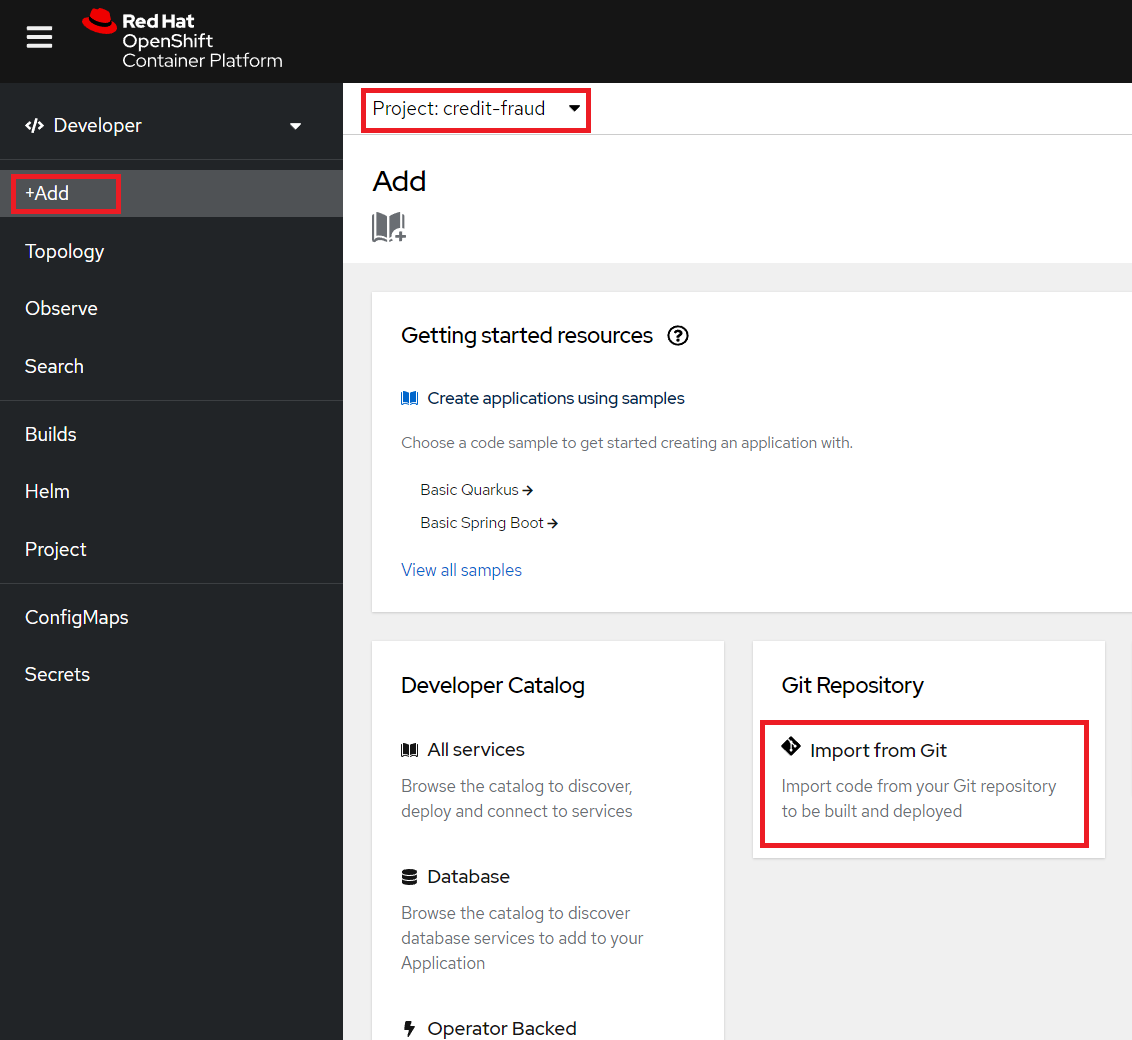
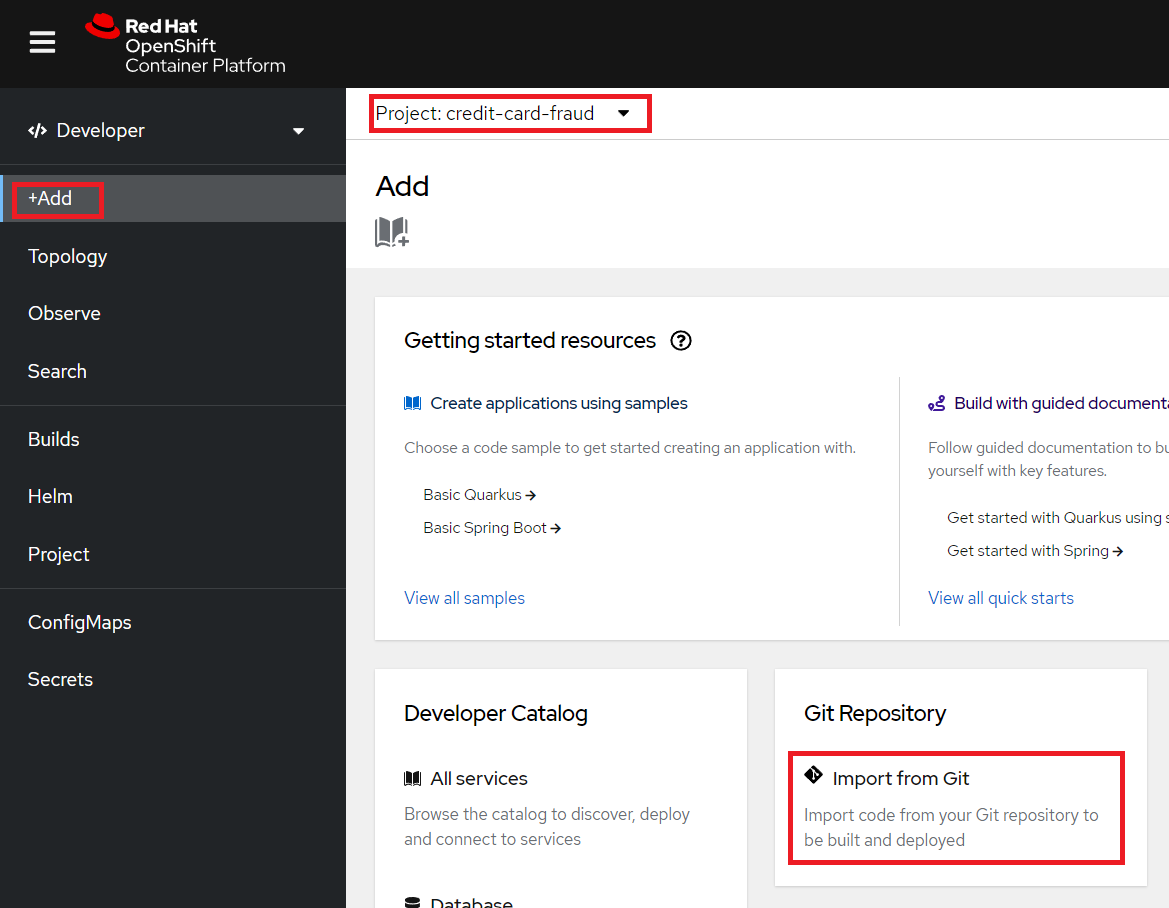
Updated README

diff --git a/README.md b/README.md
@@ -1,30 +1,36 @@
-# Credit Card Fraud Detection Demo using MLFlow and RHODS
+# Credit Card Fraud Detection Demo using MLFlow and Red Hat OpenShift Data Science
 [GitHub Source](https://github.com/red-hat-data-services/credit-fraud-detection-demo)
 
-# Pre-requisites:
-- Have [RHODS](/getting_started_rhods) running in a cluster
-- Have [MLFlow](/tools_and_applications_mlflow) running in a cluster
+## Pre-requisites:
+- Have [Red Hat OpenShift Data Science](/getting-started/openshift-data-science/) (RHODS) running in a cluster
+    - Note: You use [Open Data Hub](/getting-started/opendatahub/) instead of RHODS, but this demo and all the screenshots are from RHODS
+- Have [MLFlow](/tools-and-applications/mlflow/mlflow/) running in a cluster
 
-# Demo Description & Architecture
-The goal of this demo is to demonstrate how RHODS and MLFlow can be used together to build and end-to-end MLOps platform where we can: 
+## Demo Description & Architecture
+The goal of this demo is to demonstrate how RHODS and MLFlow can be used together to build an end-to-end MLOps platform where we can: 
 
 - Build and train models in RHODS
 - Track and store those models with MLFlow
-- Deploy a model application in OpenShift that predicts with a sepcific model from MLFlow
-- Observe how the model performs in production
+- Deploy a model application in OpenShift that runs predictions with a specific model from MLFlow
 
 The architecture looks like this:
 ![Diagram](img/Diagram.PNG)
 
-For S3 we use ODF (OpenShift Data Foundation) according to the [MLFlow guide](/tools_and_applications_mlflow), but it can be replaced with another storage.  
-The monitoring component uses Prometheus and Grafana.
+Description of each component:
 
-The model we will build is a Credit Card Fraud Detection model, which predicts if a credit card usage is fraudulent or not depending on a few paramemters such as: distance from home and last transaction, purchase price compared to median, if it's from a retailer that already has been purchased from before, if the PIN number is used and if it's an online order or not.
+- **Data Set:** The data set contains the data used for training and evaluating the model we will build in this demo.
+- **RHODS Notebook:** We will build and train the model using a Jupyter Notebook running in RHODS.
+- **MLFlow Experiment tracking:** We use MLFlow to track the model training run and parameters and metrics (such as accuracy, loss, etc) of the run. Every run is called an experiment.
+- **MLFlow Model registry:** As we track the experiment we also store the trained model through MLFlow so we can easily version it and assign a stage to it (for example Staging, Production, Archive).
+- **S3 (ODF):** This is where the models are physically stored and what the MLFlow model registry interfaces with. We use ODF (OpenShift Data Foundation) according to the [MLFlow guide](/tools-and-applications/mlflow/mlflow/), but it can be replaced with another storage.  
+- **Application interface:** This is the interface used to run predictions with the model. In our case, we will build a visual interface (interactive app) using Gradio and let it load the model from the MLFlow model registry.
+
+The model we will build is a Credit Card Fraud Detection model, which predicts if a credit card usage is fraudulent or not depending on a few parameters such as: distance from home and last transaction, purchase price compared to median, if it's from a retailer that already has been purchased from before, if the PIN number is used and if it's an online order or not.
 
 
-# Demo
+## Deploying the demo
 
-## 1.1: MLFlow Route through visual interface
+### 1.1: MLFlow Route through the visual interface
 Start by finding your route to MLFlow. You will need it to send any data to MLFlow.
 
 - Go to the OpenShift Console as a Developer
@@ -35,16 +41,22 @@ Start by finding your route to MLFlow. You will need it to send any data to MLFl
 - Go to the Resources tab 
 - Press mlflow-server under Services 
 - Look at the Hostname and mlflow-server Port.  
-NOTE: This route and port only works internally in the cluster.
+NOTE: This route and port only work internally in the cluster.
+
 ![Find mlflow-server-service](img/mlflow-server-service.png)
-![Find hostname and port](img/hostname-and-port.png)
+![Find the hostname and port](img/hostname-and-port.png)
 
-## 1.2: MLFlow Route through oc
-Alternatively, you can use the OC command to get the route through: `oc get route mlflow | grep mlflow`
+### 1.2: Get the MLFlow Route using command-line
+Alternatively, you can use the OC command to get the route through: `oc get route mlflow -n mlflow | grep mlflow`
 
-## 2: Create a RHODS workbench
-Open up RHODS and create a new Data Science project (see image), this is where we will build and train our model. This will also create a namespace in OpenShift which is where we will be running our appliaction after the model is done.  
-I'm calling my project 'Credit Fraud', feel free to call yours something different but be aware that some things further down in the demo may change.
+### 2: Create a RHODS workbench
+Start by open up RHODS by clicking on the 9 square symbol in the top menu and choosing "Red Hat OpenShift Data Science".
+
+![Open RHODS](img/Open_RHODS.png)
+
+Then create a new Data Science project (see image), this is where we will build and train our model. This will also create a namespace in OpenShift which is where we will be running our application after the model is done.  
+I'm calling my project 'Credit Card Fraud', feel free to call yours something different but be aware that some things further down in the demo may change.
+
 ![Create Data Science Project](img/Create_data_science_project.png)
 
 After the project has been created, create a workbench where we can run Jupyter.  
@@ -53,34 +65,78 @@ There are a few important settings here that we need to set:
 - **Name:** I simply call it "Credit Fraud Model", but feel free to call it something else.
 - **Notebook Image:** Standard Data Science
 - **Deployment Size:** Small
-- **Environment Variable:** Add a new one that's a Config Map -> Key/value and enter `MLFLOW_ROUTE` as the key and `http://<route-to-mlflow>:<port>` as the value.  
-This is the same route and port that we found in [step one](#11-mlflow-route-through-visual-interface), in my case it is `http://mlflow-server.mlflow.svc.cluster.local:8080`.
-- **Cluster Storage:** Create new persistent storage - I call it "Credit Fraud Storage" and set size to 20GB.
+- **Environment Variable:** Add a new one that's a Config Map -> Key/value and enter `MLFLOW_ROUTE` as the key and `http://<route-to-mlflow>:<port>` as the value, replacing `<route-to-mlflow>` and `<port>` with the  route and port that we found in [step one](#11-mlflow-route-through-the-visual-interface).  In my case it is `http://mlflow-server.mlflow.svc.cluster.local:8080`.
+- **Cluster Storage:** Create new persistent storage - I call it "Credit Fraud Storage" and set the size to 20GB.
 
-Press Create Workbench and wait for it to start (Status should say "Running" and you should be able to press the Open link).
 ![Workbench Settings](img/Workbench_Settings.png)
+
+Press Create Workbench and wait for it to start - status should say "Running" and you should be able to press the Open link.
+
 ![Workbench](img/Workbench.png)
 
-Open the workbench and log in if needed.
+Open the workbench and login if needed.
 
-## 3: Train the model
-When inside the workbench (Jupyter), pull down this repo from GitHub: [https://github.com/red-hat-data-services/credit-fraud-detection-demo](https://github.com/red-hat-data-services/credit-fraud-detection-demo).   
-It contains:
+### 3: Train the model
+When inside the workbench (Jupyter), we are going to clone a GitHub repository which contains everything we need to train our model.  
+You can clone the GitHub repository by pressing the GitHub button in the left side menu (see image), then select "Clone a Repository" and enter this GitHub URL: [https://github.com/red-hat-data-services/credit-fraud-detection-demo](https://github.com/red-hat-data-services/credit-fraud-detection-demo) 
 
-- A notebook (model.ipynb) inside the `model` folder with a Deep Neural Network model we will train.
-- Data for that model.
-- An application (model_application.py) inside the `application` folder which will fetch the trained model from MLFlow and run a prediction on it whenever it gets any user input.
 ![Jupyter](img/Jupyter.png)
 
-Take a look inside the folders and scripts if you are interested.  
-Some things to note is how we set up tracking and logging with MLFlow in `model.ipynb` to make sure that the experiment and the model is captured. You can also read about that in the [MLFlow guide](/tools_and_applications_mlflow#adding-mlflow-to-training-code).
+Open up the folder that was added (credit-fraud-detection-demo).  
+It contains:
 
-When you are done, open up the `model.ipynb` notebook and run all the cells. If the everything is set up correctly it will train the model and push both the experiment and the model to MLFlow.  
+- Data for training and evaluating the model.
+- A notebook (model.ipynb) inside the `model` folder with a Deep Neural Network model we will train.
+- An application (model_application.py) inside the `application` folder that will fetch the trained model from MLFlow and run a prediction on it whenever it gets any user input.
+
+The `model.ipynb` is what we are going to use for building and training the model, so open that up and take a look inside, there is documentation outlining what each cell does. What is particularly interesting for this demo are the last two cells.  
+
+The second to last cell contains the code for setting up MLFlow tracking:
+```
+mlflow.set_tracking_uri(MLFLOW_ROUTE)
+mlflow.set_experiment("DNN-credit-card-fraud")
+mlflow.tensorflow.autolog(registered_model_name="DNN-credit-card-fraud")
+```
+`mlflow.set_tracking_uri(MLFLOW_ROUTE)` just points to where we should send our MLFlow data.  
+`mlflow.set_experiment("DNN-credit-card-fraud")` tells MLFlow that we want to create an experiment, and what we are going to call it. In this case I call it "DNN-credit-fraud" as we are building a Deep Neural Network.  
+`mlflow.tensorflow.autolog(registered_model_name="DNN-credit-card-fraud")` enables autologging of a bunch of variables (such as accuracy, loss, etc) so we don't manually have to track them. It also automatically uploads the model to MLFlow after the training completes. Here we name the model the same as the experiment.
+
+Then in the last cell we have our training code:
+```
+with mlflow.start_run():
+    epochs = 2
+    history = model.fit(X_train, y_train, epochs=epochs, \
+                        validation_data=(scaler.transform(X_val),y_val), \
+                        verbose = True, class_weight = class_weights)
+
+    y_pred_temp = model.predict(scaler.transform(X_test)) 
+
+    threshold = 0.995
+
+    y_pred = np.where(y_pred_temp > threshold, 1,0)
+    c_matrix = confusion_matrix(y_test,y_pred)
+    ax = sns.heatmap(c_matrix, annot=True, cbar=False, cmap='Blues')
+    ax.set_xlabel("Prediction")
+    ax.set_ylabel("Actual")
+    ax.set_title('Confusion Matrix')
+    plt.show()
+
+    t_n, f_p, f_n, t_p = c_matrix.ravel()
+    mlflow.log_metric("tn", t_n)
+    mlflow.log_metric("fp", f_p)
+    mlflow.log_metric("fn", f_n)
+    mlflow.log_metric("tp", t_p)
+```
+`with mlflow.start_run():` is used to tell MLFlow that we are starting a run, and we wrap our training code with it to define exactly what code belongs to the "run".  
+Most of the rest of the code in this cell is normal model training and evaluation code, but at the very bottom we can see how we send some custom metrics to MLFlow through `mlflow.log_metric`. We do this as custom metrics are not tracked by the autolog we enabled in the last cell.
+
+Now run all the cells in the notebook from top to bottom, either through clicking Shift-Enter on every cell, or by going to Run->Run All Cells in the very top menu.  
+If everything is set up correctly it will train the model and push both the experiment and the model to MLFlow.  
 The experiment is a record with metrics of how the run went, while the model is the actual tensorflow model which we later will use for inference.  
-You may see some warnings in the last cell related to MLFlow, as long as you see a final progressbar which pushes the model to MLFlow you are fine:
+You may see some warnings in the last cell related to MLFlow, as long as you see a final progressbar for the model being pushed to MLFlow you are fine:
 ![Trained model](img/Trained_model.png)
 
-## 4: View the model in MLFlow
+### 4: View the model in MLFlow
 Let's take a look at how it looks inside MLFlow now that we have trained the model.  
 If you opened the MLFlow UI in a new tab in step 1.1, then just swap over to that tab, otherwise follow these steps:
 
@@ -97,37 +153,38 @@ You can now click on the row in the Created column to get more information about
 
 ![MLFlow view](img/MLFlow_view.png)
 
-## 5: Deploy the model
-To deploy the model, go to the OpenShift Console and make sure you are in **Developer** view and have selected the **credit-fraud** project.  
+### 5: Deploy the model application
+The model application is a visual interface for interacting with the model. You can use it to send data to the model and get a prediction of whether a transaction is fraudulent or not.  
+It works by loading a specific model and model version from MLFlow, and running the data through the model whenever it comes in.  
+You can find the model application code in the "application" folder in the GitHub repository you cloned in [step 3](#3-train-the-model).
+
+![Model Application Folder](img/Model_Application_Folder.PNG)
+
+We are going to deploy the application with OpenShift by pointing it to the GitHub repository.  
+It will pull down the folder, automatically build a container image based on the Dockerfile (instructions for ), and publish it.
+
+To do this, go to the OpenShift Console and make sure you are in **Developer** view and have selected the **credit-card-fraud** project.  
 Then press "+Add" in the left menu and select Import from Git.  
+
 ![Import from Git](img/Import_from_Git.png)
+
 In the "Git Repo URL" enter: [https://github.com/red-hat-data-services/credit-fraud-detection-demo](https://github.com/red-hat-data-services/credit-fraud-detection-demo) (this is the same repository we pulled into RHODS earlier).  
 Then press "Show advanced Git options" and set "Context dir" to "/application".  
 Press Create to start deploying the application.
+
 ![Import from Git Settings](img/Import_from_Git_settings.png)
+
 You should now see two objects in your topology map, one for the Workbench we created earlier and one for the application we just added.  
 When the circle of your deployment turns dark blue it means that it has finished deploying.  
 If you want more details on how the deployment is going, you can press the circle and look at Resources in the right menu that opens up. There you can see how the build is going and what's happening to the pod. The application will be ready when the build is complete and the pod is "Running".  
 When the application has been deployed you can press the "Open URL" button to open up the interface in a new tab. 
+
 ![Application deployed](img/Application_deployed.png)
+
 Congratulations, you now have an application running your AI model!  
 If you looked inside the application code earlier, you also know that we specifically pull version 1 of the model called "DNN Fraud Detection" from MLFlow. This makes sense since we only ran the model once, but is easy to change if any other version or model should go into production.  
-We are also utilizing a program called "Gradio" to create the interface, it's a super lightweight way to get a nice looking interface running.
+We are also utilizing a program called "Gradio" to create the interface, it's a super lightweight way to get a nice-looking interface running.
 
 Try entering a few values and see if it predicts it as a credit fraud or not. You can select one of the examples at the bottom of the application page.
+
 ![Gradio](img/Gradio.PNG)
-
-
-## 6: Set up monitoring with Prometheus
-Now that we have an application and model running, we want to monitor what data goes through the model so we can alert on any detected frauds and see if the model starts drifting (the average inputs change) over time.  
-We will use Prometheus for gathering the data.
-
-To set up Prometheus, start by going to the OpenShift Console as an Administrator and go to OperatorHub.
-Find the Prometheus Operator and make sure to install it in the credit-fraud namespace - this is so we have everything application related in the same namespace.
-![Prometheus Operator](img/Prometheus_Operator.png)
-
-The deployed model was already built to send data to Prometheus so no changes needed there.  
-Simply go to the model and run some data through it to see what happens in Prometheus.
-
-
-## 7: Set up alerting with Graphana
